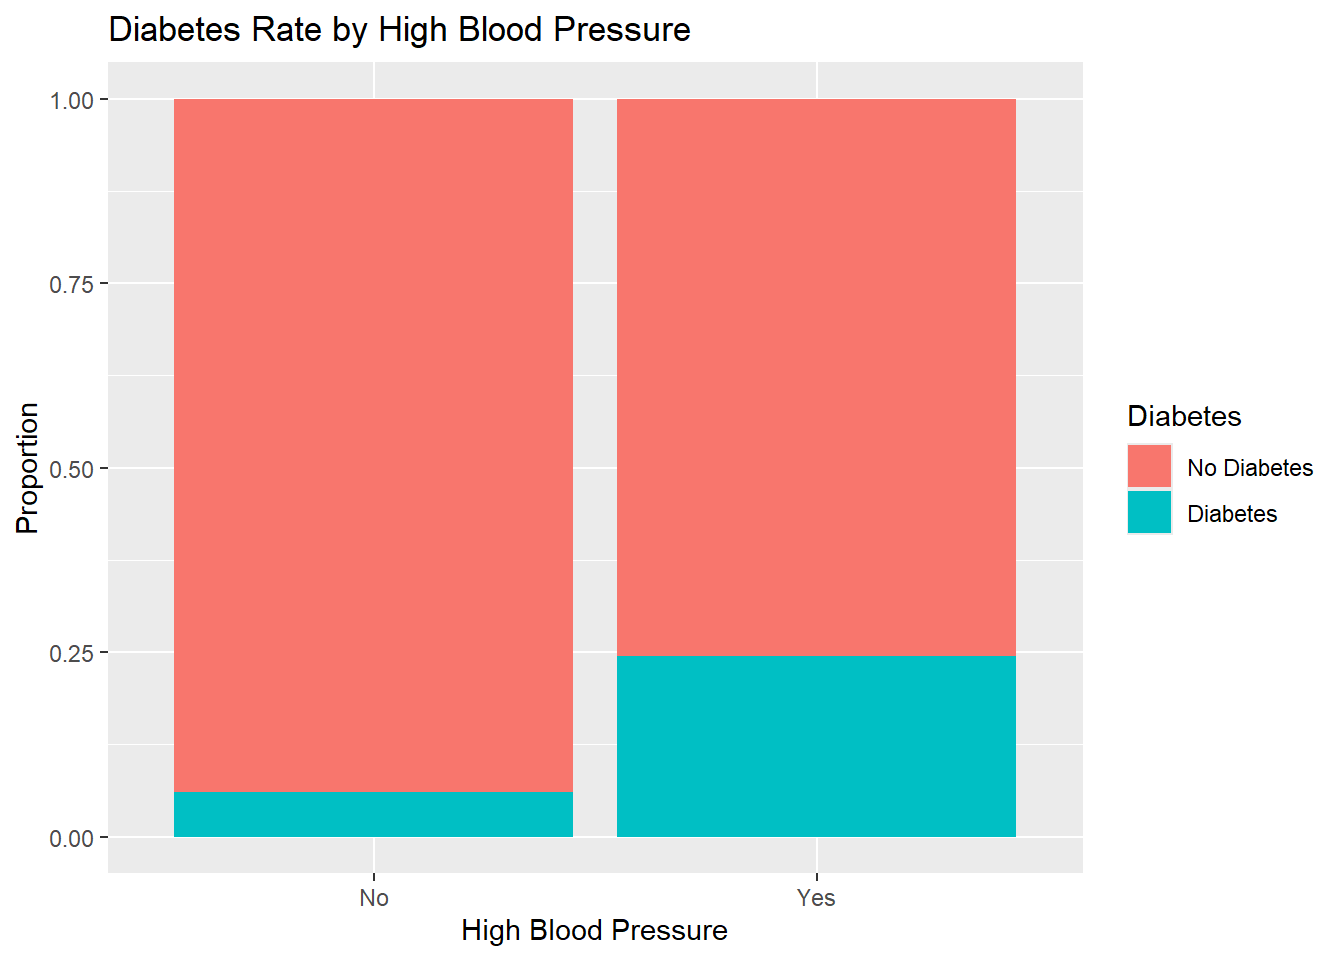
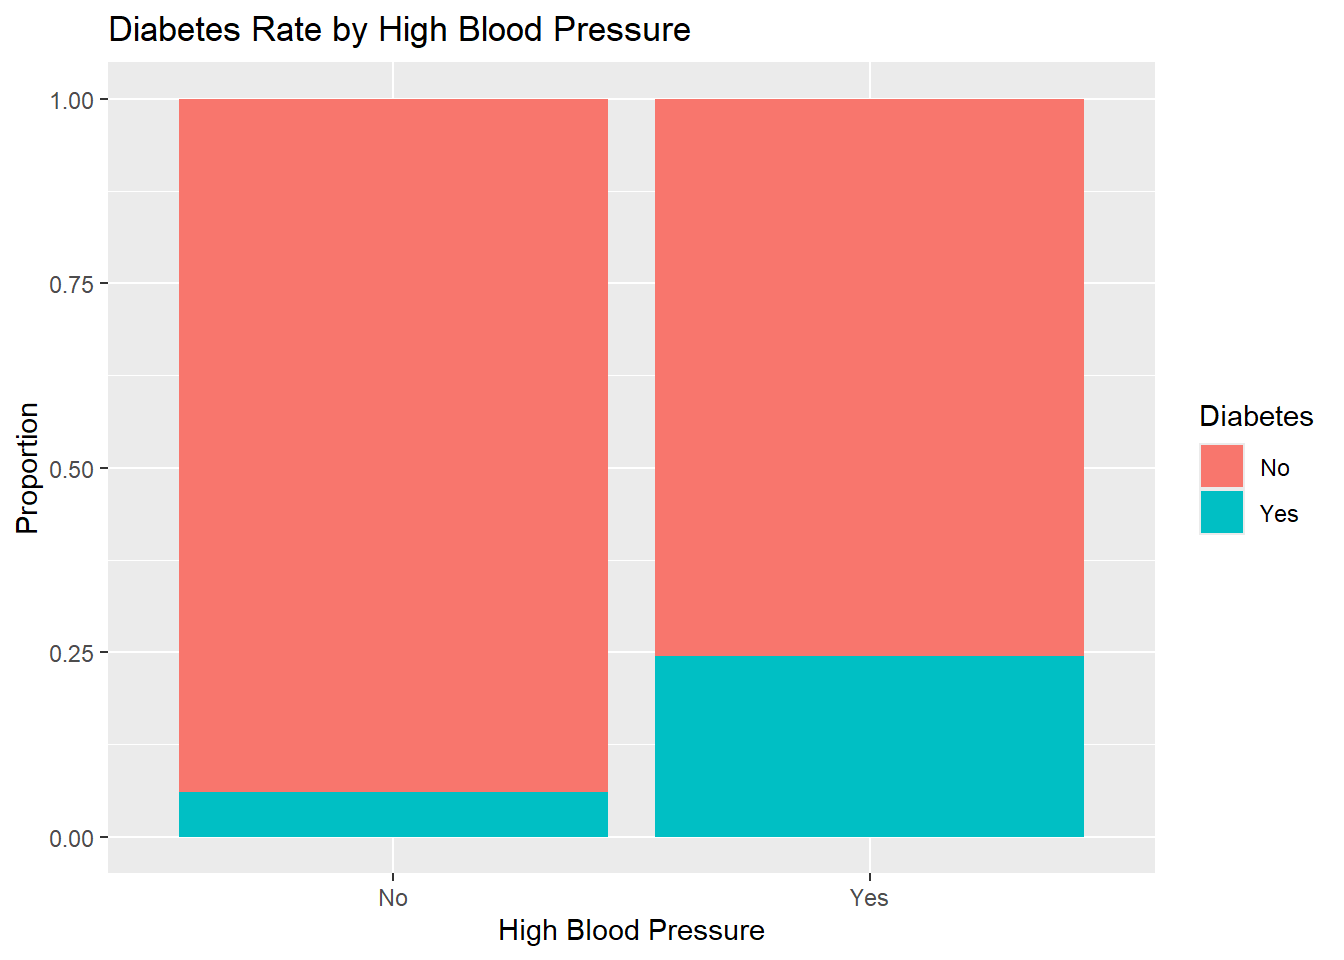
API created

diff --git a/docs/EDA.html b/docs/EDA.html
@@ -169,19 +169,19 @@ pre > code.sourceCode > span > a:first-child::before { text-decoration: underlin
 <span id="cb2-4"><a href="#cb2-4" aria-hidden="true" tabindex="-1"></a><span class="co"># Pick response and variables to be investigated and mutate them appropriately</span></span>
 <span id="cb2-5"><a href="#cb2-5" aria-hidden="true" tabindex="-1"></a>diabetes_data <span class="ot">&lt;-</span> diabetes_data[, <span class="fu">c</span>(<span class="st">"Diabetes_binary"</span>, <span class="st">"BMI"</span>, <span class="st">"PhysActivity"</span>, <span class="st">"HighBP"</span>)] <span class="sc">%&gt;%</span></span>
 <span id="cb2-6"><a href="#cb2-6" aria-hidden="true" tabindex="-1"></a>    <span class="fu">mutate</span>(</span>
-<span id="cb2-7"><a href="#cb2-7" aria-hidden="true" tabindex="-1"></a>    <span class="at">Diabetes_binary =</span> <span class="fu">factor</span>(Diabetes_binary, <span class="at">levels =</span> <span class="fu">c</span>(<span class="dv">0</span>, <span class="dv">1</span>), <span class="at">labels =</span> <span class="fu">c</span>(<span class="st">"No Diabetes"</span>, <span class="st">"Diabetes"</span>)),</span>
+<span id="cb2-7"><a href="#cb2-7" aria-hidden="true" tabindex="-1"></a>    <span class="at">Diabetes_binary =</span> <span class="fu">factor</span>(Diabetes_binary, <span class="at">levels =</span> <span class="fu">c</span>(<span class="dv">0</span>, <span class="dv">1</span>), <span class="at">labels =</span> <span class="fu">c</span>(<span class="st">"No"</span>, <span class="st">"Yes"</span>)),</span>
 <span id="cb2-8"><a href="#cb2-8" aria-hidden="true" tabindex="-1"></a>    <span class="at">PhysActivity =</span> <span class="fu">factor</span>(PhysActivity, <span class="at">levels =</span> <span class="fu">c</span>(<span class="dv">0</span>, <span class="dv">1</span>), <span class="at">labels =</span> <span class="fu">c</span>(<span class="st">"No"</span>, <span class="st">"Yes"</span>)),</span>
 <span id="cb2-9"><a href="#cb2-9" aria-hidden="true" tabindex="-1"></a>    <span class="at">HighBP =</span> <span class="fu">factor</span>(HighBP, <span class="at">levels =</span> <span class="fu">c</span>(<span class="dv">0</span>, <span class="dv">1</span>), <span class="at">labels =</span> <span class="fu">c</span>(<span class="st">"No"</span>, <span class="st">"Yes"</span>))</span>
 <span id="cb2-10"><a href="#cb2-10" aria-hidden="true" tabindex="-1"></a>  )</span>
 <span id="cb2-11"><a href="#cb2-11" aria-hidden="true" tabindex="-1"></a><span class="fu">head</span>(diabetes_data)</span></code><button title="Copy to Clipboard" class="code-copy-button"><i class="bi"></i></button></pre></div>
 <div class="cell-output cell-output-stdout">
 <pre><code>  Diabetes_binary BMI PhysActivity HighBP
-1     No Diabetes  40           No    Yes
-2     No Diabetes  25          Yes     No
-3     No Diabetes  28           No    Yes
-4     No Diabetes  27          Yes    Yes
-5     No Diabetes  24          Yes    Yes
-6     No Diabetes  25          Yes    Yes</code></pre>
+1              No  40           No    Yes
+2              No  25          Yes     No
+3              No  28           No    Yes
+4              No  27          Yes    Yes
+5              No  24          Yes    Yes
+6              No  25          Yes    Yes</code></pre>
 </div>
 <div class="sourceCode cell-code" id="cb4"><pre class="sourceCode r code-with-copy"><code class="sourceCode r"><span id="cb4-1"><a href="#cb4-1" aria-hidden="true" tabindex="-1"></a><span class="co">#check for missing values</span></span>
 <span id="cb4-2"><a href="#cb4-2" aria-hidden="true" tabindex="-1"></a><span class="fu">any</span>(<span class="fu">is.na</span>(diabetes_data))</span></code><button title="Copy to Clipboard" class="code-copy-button"><i class="bi"></i></button></pre></div>
@@ -197,13 +197,13 @@ pre > code.sourceCode > span > a:first-child::before { text-decoration: underlin
 <div class="cell">
 <div class="sourceCode cell-code" id="cb6"><pre class="sourceCode r code-with-copy"><code class="sourceCode r"><span id="cb6-1"><a href="#cb6-1" aria-hidden="true" tabindex="-1"></a><span class="fu">summary</span>(diabetes_data)</span></code><button title="Copy to Clipboard" class="code-copy-button"><i class="bi"></i></button></pre></div>
 <div class="cell-output cell-output-stdout">
-<pre><code>    Diabetes_binary        BMI        PhysActivity HighBP      
- No Diabetes:218334   Min.   :12.00   No : 61760   No :144851  
- Diabetes   : 35346   1st Qu.:24.00   Yes:191920   Yes:108829  
-                      Median :27.00                            
-                      Mean   :28.38                            
-                      3rd Qu.:31.00                            
-                      Max.   :98.00                            </code></pre>
+<pre><code> Diabetes_binary      BMI        PhysActivity HighBP      
+ No :218334      Min.   :12.00   No : 61760   No :144851  
+ Yes: 35346      1st Qu.:24.00   Yes:191920   Yes:108829  
+                 Median :27.00                            
+                 Mean   :28.38                            
+                 3rd Qu.:31.00                            
+                 Max.   :98.00                            </code></pre>
 </div>
 </div>
 <p>We can see that around 15% of the individuals in this study have diabetes. This should be a sufficient proportion to allow for meaningful predictions.</p>
